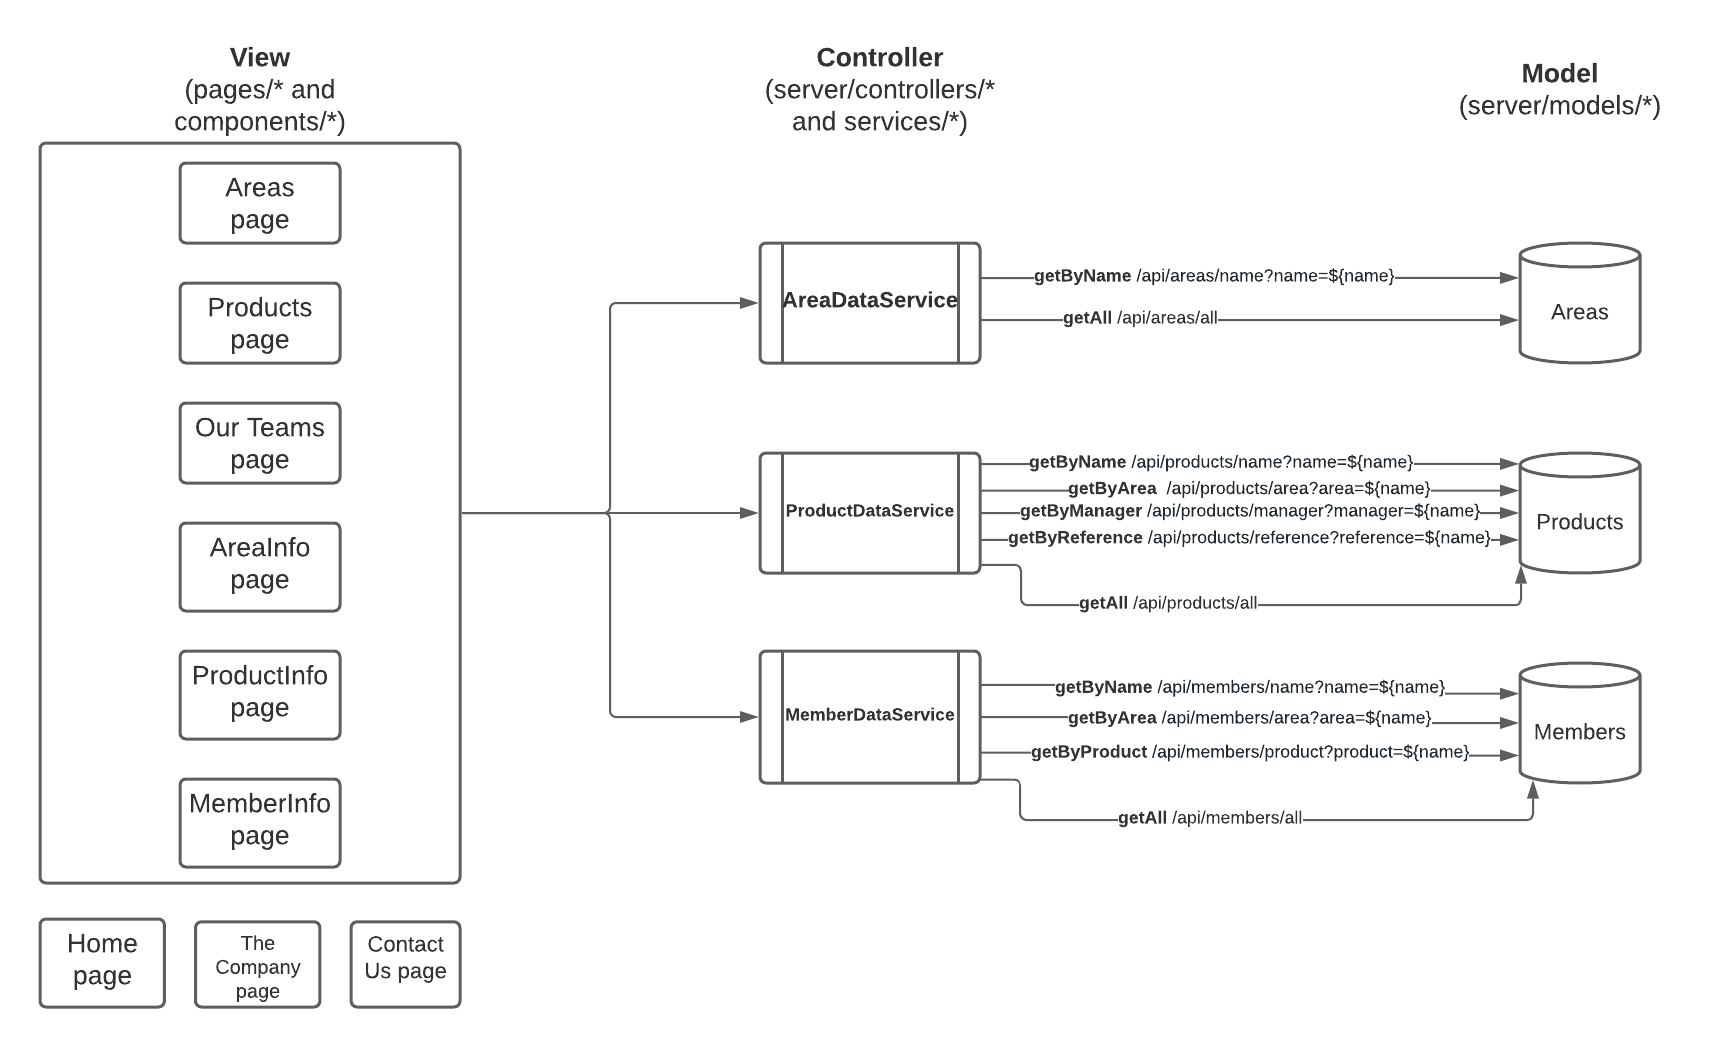
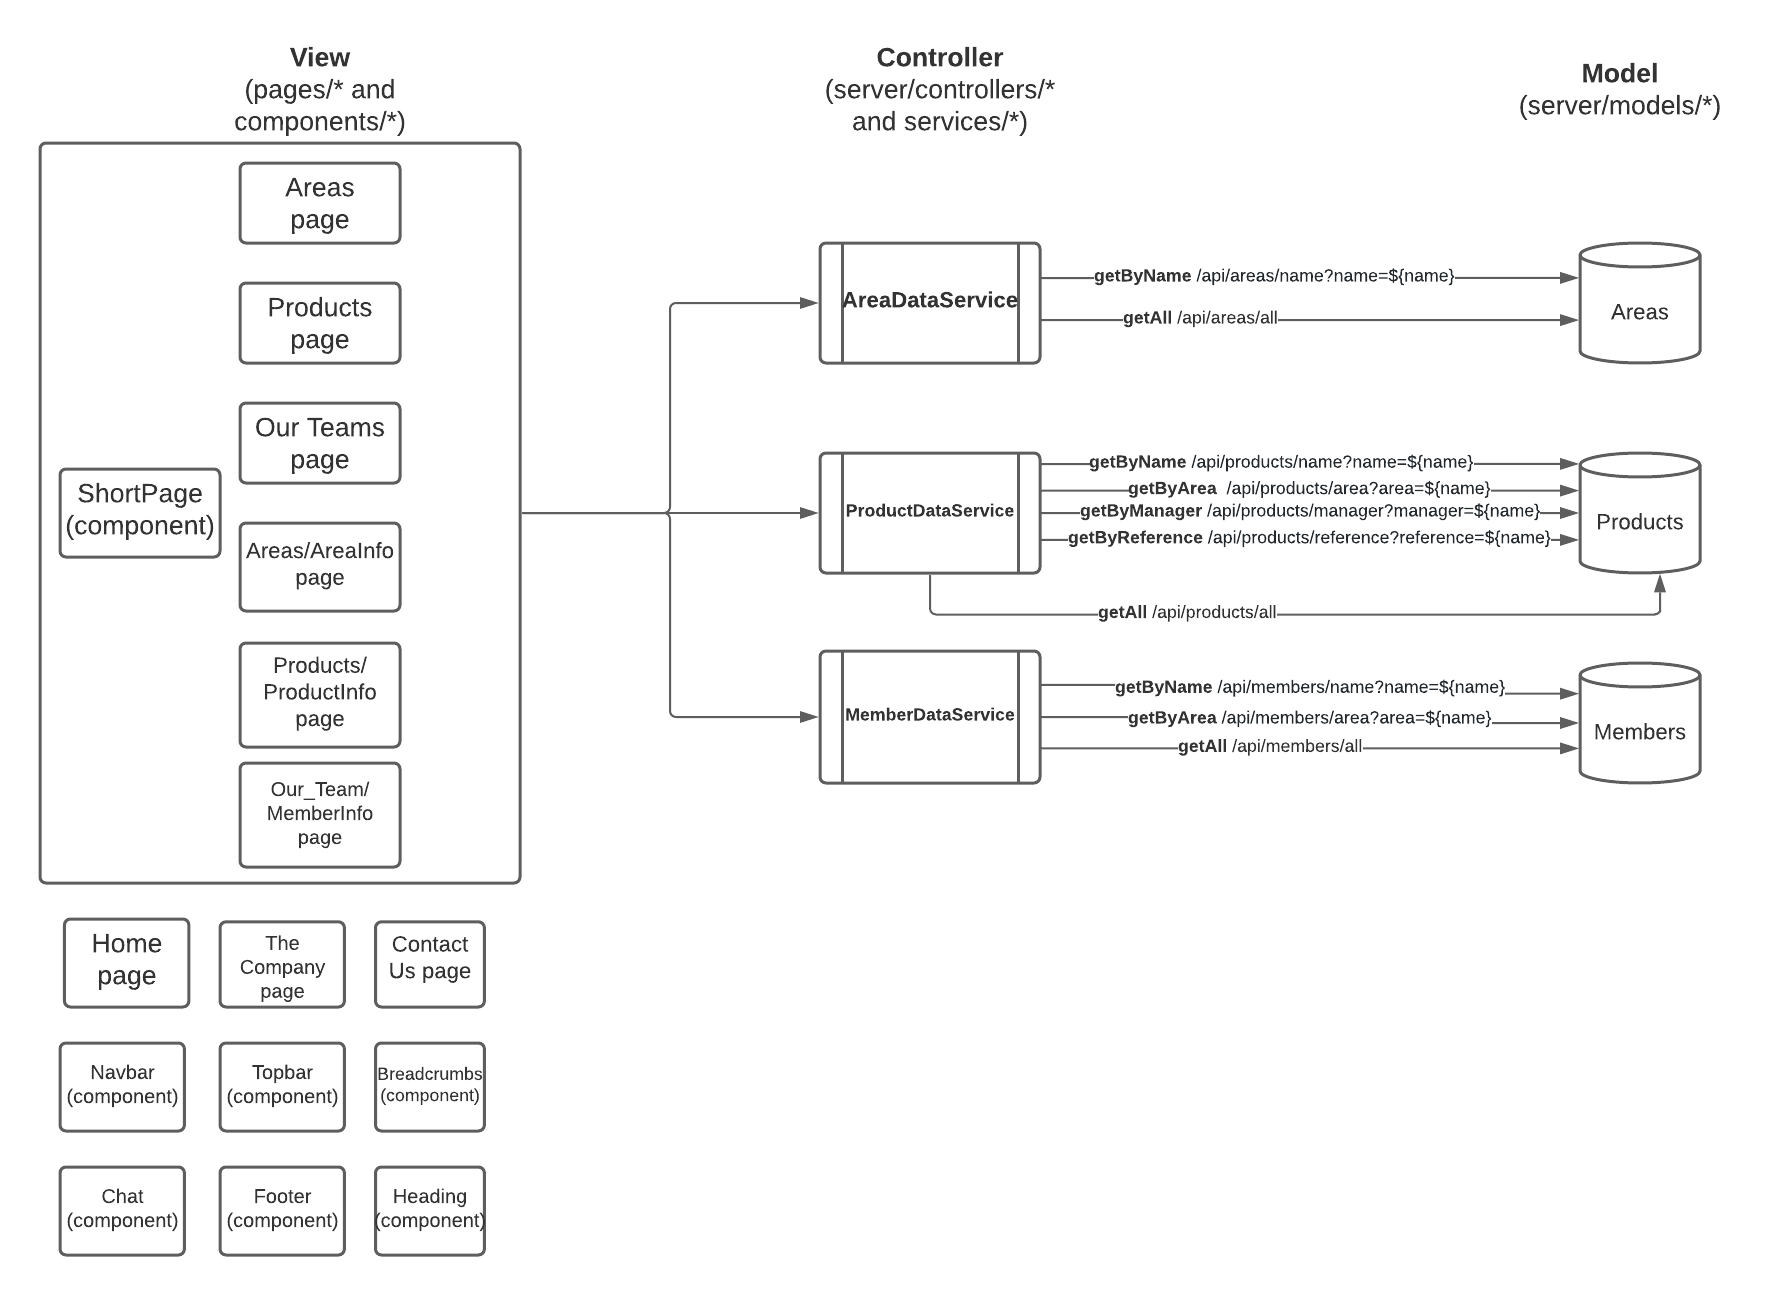
Added README and comments

diff --git a/plugins/README.md b/plugins/README.md
@@ -201,11 +201,6 @@ The routes for the server are configured using files in server/controllers and s
         <td>/api/members/name?name=${name}</td>
     </tr>
     <tr>
-        <td>getByProduct(name)</td>
-        <td>GET</td>
-        <td>/api/members/product?product=${name}</td>
-    </tr>
-    <tr>
         <td>getByArea(name)</td>
         <td>GET</td>
         <td>/api/members/area?area=${name}</td>

diff --git a/server/README.md b/server/README.md
@@ -370,11 +370,6 @@ The routes for the server are configured using files in server/controllers and s
         <td>/api/members/name?name=${name}</td>
     </tr>
     <tr>
-        <td>getByProduct(name)</td>
-        <td>GET</td>
-        <td>/api/members/product?product=${name}</td>
-    </tr>
-    <tr>
         <td>getByArea(name)</td>
         <td>GET</td>
         <td>/api/members/area?area=${name}</td>
